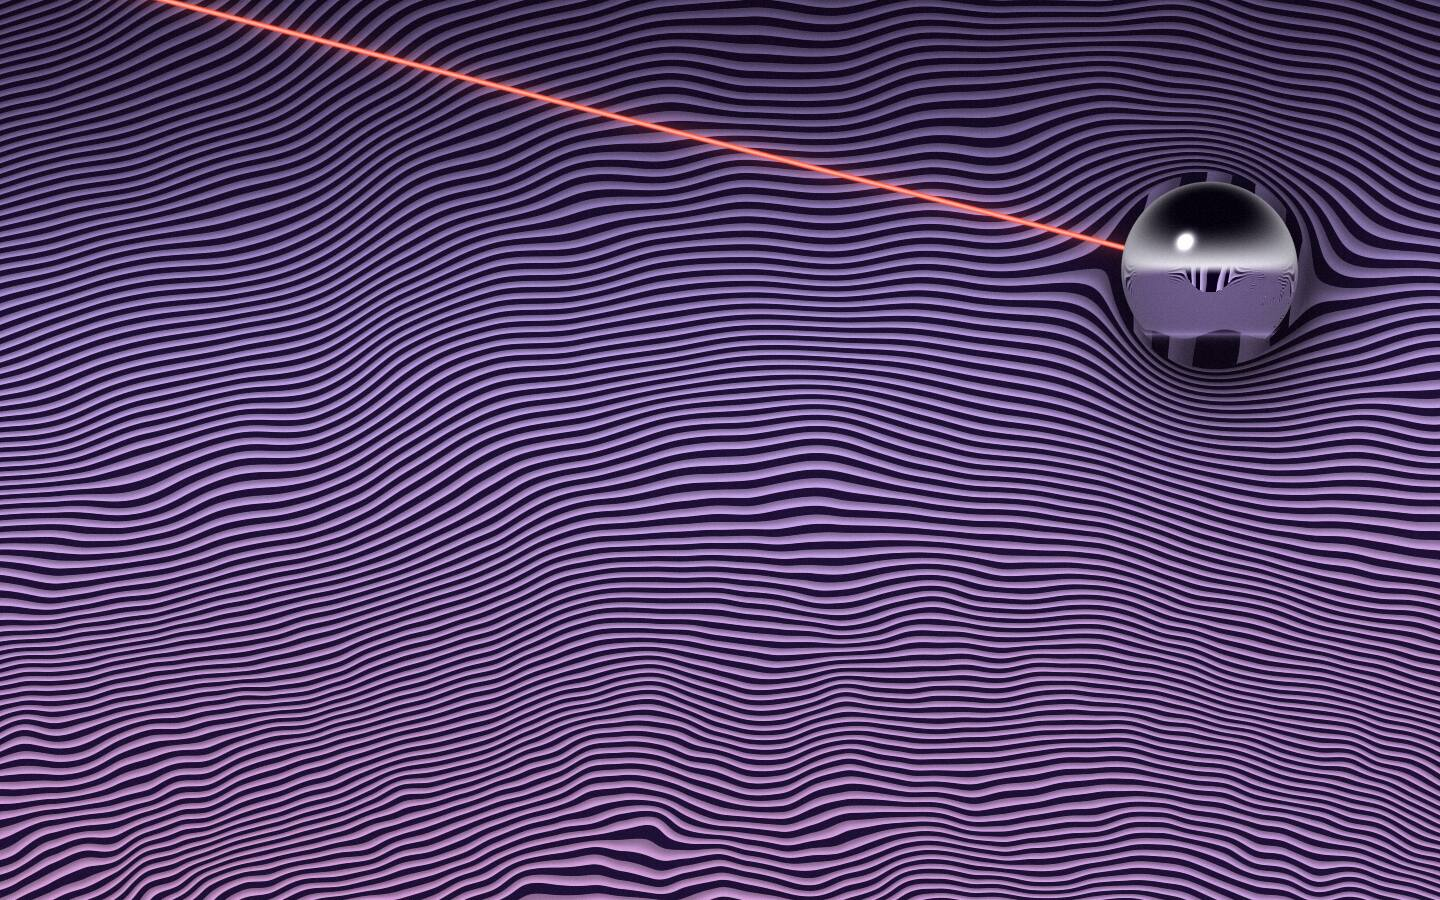
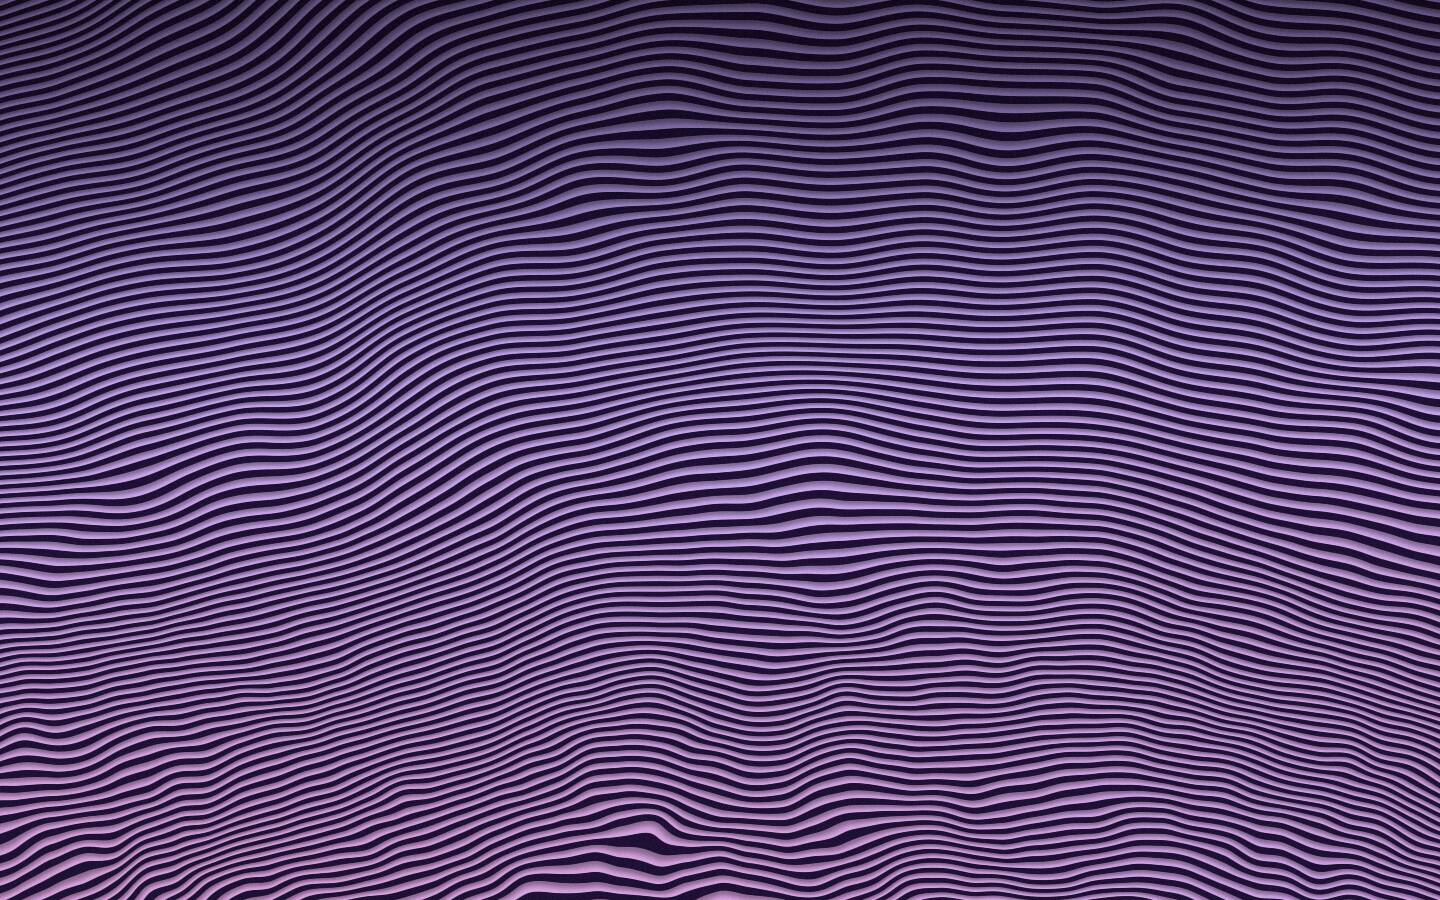
feat: more hover texts

diff --git a/index.html b/index.html
@@ -89,7 +89,7 @@
   <div class="grain" aria-hidden="true"></div>
 
   <header class="corner">
-    <a class="corner__tag" href="#top">Venkatesh Raju</a>
+    <a class="corner__tag" href="#top" data-hover="back to top">Venkatesh Raju</a>
     <button class="corner__tag corner__menu" type="button" aria-expanded="false" aria-controls="tracklist">Menu</button>
   </header>
 
@@ -113,13 +113,13 @@
     <!-- Hero: the name floats on the current; the ball knocks the letters around -->
     <section id="top" class="hero">
       <div class="hero__name-wrap">
-        <h1 class="hero__name slab slab--outlined" data-slab>Venkatesh Raju</h1>
+        <h1 class="hero__name slab slab--outlined" data-slab data-hover="go on, shove the letters">Venkatesh Raju</h1>
         <span class="hero__note scribble" aria-hidden="true">builds AI agents</span>
       </div>
 
       <div class="hero__foot">
         <p class="hero__line">Full-stack developer and final-year computer science student in Bangalore. Currently at Dscape.AI.</p>
-        <a class="hero__down" href="#about">
+        <a class="hero__down" href="#about" data-hover="scroll down">
           <span>About me</span>
           <svg class="brush brush--down" viewBox="0 0 60 120" aria-hidden="true">
             <path pathLength="1" d="M30 6 C 14 30, 46 50, 28 74 S 30 100, 30 112" />
@@ -144,12 +144,12 @@
               <path d="M20 40 L140 10" stroke="var(--ink)" stroke-width="3" fill="none" />
             </svg>
           </div>
-          <img class="about__photo" src="/art/portrait.webp" width="791" height="848" alt="Venkatesh, smiling, in a denim shirt" />
+          <img class="about__photo" src="/art/portrait.webp" width="791" height="848" alt="Venkatesh, smiling, in a denim shirt" data-hover="that's me" />
           <dl class="about__stub cut">
-            <div><dt>Projects built</dt><dd>10</dd></div>
-            <div><dt>DSA problems solved</dt><dd>300+</dd></div>
-            <div><dt>CGPA</dt><dd>8.86</dd></div>
-            <div><dt>Research papers</dt><dd>3</dd></div>
+            <div data-hover="and counting"><dt>Projects built</dt><dd>10</dd></div>
+            <div data-hover="LeetCode, in C++"><dt>DSA problems solved</dt><dd>300+</dd></div>
+            <div data-hover="out of 10"><dt>CGPA</dt><dd>8.86</dd></div>
+            <div data-hover="ask me about them"><dt>Research papers</dt><dd>3</dd></div>
           </dl>
         </figure>
 
@@ -176,7 +176,7 @@
             <div class="work__track">
 
               <article class="ticket" style="--tilt:-2.2deg; --drop:0vh">
-                <div class="ticket__art cut">
+                <div class="ticket__art cut" data-hover="updates itself daily">
                   <img src="/art/work-trend-scout.webp" width="1200" height="687" alt="" loading="lazy" />
                   <h3 class="slab slab--outlined ticket__title" data-slab>AI Trend Scout</h3>
                 </div>
@@ -189,7 +189,7 @@
               </article>
 
               <article class="ticket" style="--tilt:1.6deg; --drop:5vh">
-                <div class="ticket__art cut">
+                <div class="ticket__art cut" data-hover="ranked 7th">
                   <img src="/art/work-sales.webp" width="1200" height="750" alt="" loading="lazy" />
                   <h3 class="slab slab--outlined ticket__title" data-slab>Sales Forecasting</h3>
                   <span class="sticker sticker--stat">90.46% accurate</span>
@@ -203,7 +203,7 @@
               </article>
 
               <article class="ticket" style="--tilt:-1deg; --drop:-3vh">
-                <div class="ticket__art cut">
+                <div class="ticket__art cut" data-hover="99.62%, not a typo">
                   <img src="/art/work-neurorag.webp" width="1200" height="800" alt="" loading="lazy" />
                   <h3 class="slab slab--outlined ticket__title" data-slab>NeuroRAG-PD</h3>
                   <span class="sticker sticker--stat">99.62% accurate</span>
@@ -217,7 +217,7 @@
               </article>
 
               <article class="ticket" style="--tilt:2.4deg; --drop:3vh">
-                <div class="ticket__art cut">
+                <div class="ticket__art cut" data-hover="live chat, try it">
                   <img src="/art/work-chat-sync.webp" width="1200" height="687" alt="" loading="lazy" />
                   <h3 class="slab slab--outlined ticket__title" data-slab>Chat Sync</h3>
                 </div>
@@ -230,7 +230,7 @@
               </article>
 
               <article class="ticket" style="--tilt:-1.6deg; --drop:-1vh">
-                <div class="ticket__art cut">
+                <div class="ticket__art cut" data-hover="new posts land here">
                   <img src="/art/work-blog.webp" width="1200" height="687" alt="" loading="lazy" />
                   <h3 class="slab slab--outlined ticket__title" data-slab>Personal Blog</h3>
                 </div>
@@ -251,7 +251,7 @@
     <section id="now" class="frame now" aria-labelledby="now-title">
       <div class="now__grid">
         <div class="now__role">
-          <h3 class="now__title">Agentic AI Developer</h3>
+          <h3 class="now__title" data-hover="the day job">Agentic AI Developer</h3>
           <p class="now__where">Dscape.AI Pvt Ltd, since January 2026</p>
           <p>I build n8n automation pipelines for real business workflows, and the RAG, NLP and machine-learning pieces that turn those pipelines into agents.</p>
           <ul class="tags">
@@ -279,13 +279,13 @@
       </div>
 
       <ul class="wall" aria-label="Tools I use">
-        <li class="wall__word wall__word--fav" data-wall>React<svg class="loop" viewBox="0 0 200 100" preserveAspectRatio="none" aria-hidden="true"><path data-draw d="M14 52 C 10 14, 186 6, 192 44 C 198 88, 24 96, 10 62 C 4 40, 48 18, 80 16" /></svg></li>
+        <li class="wall__word wall__word--fav" data-wall data-hover="a favourite">React<svg class="loop" viewBox="0 0 200 100" preserveAspectRatio="none" aria-hidden="true"><path data-draw d="M14 52 C 10 14, 186 6, 192 44 C 198 88, 24 96, 10 62 C 4 40, 48 18, 80 16" /></svg></li>
         <li class="wall__word" data-wall>Node.js</li>
-        <li class="wall__word wall__word--fav" data-wall>Python<svg class="loop" viewBox="0 0 200 100" preserveAspectRatio="none" aria-hidden="true"><path data-draw d="M18 48 C 14 10, 190 12, 190 50 C 190 92, 20 92, 12 58 C 8 36, 60 14, 96 14" /></svg></li>
+        <li class="wall__word wall__word--fav" data-wall data-hover="a favourite">Python<svg class="loop" viewBox="0 0 200 100" preserveAspectRatio="none" aria-hidden="true"><path data-draw d="M18 48 C 14 10, 190 12, 190 50 C 190 92, 20 92, 12 58 C 8 36, 60 14, 96 14" /></svg></li>
         <li class="wall__word" data-wall>C++</li>
         <li class="wall__word" data-wall>MongoDB</li>
         <li class="wall__word" data-wall>Express</li>
-        <li class="wall__word wall__word--fav" data-wall>n8n<svg class="loop" viewBox="0 0 200 100" preserveAspectRatio="none" aria-hidden="true"><path data-draw d="M16 54 C 8 16, 184 4, 192 46 C 198 86, 28 98, 12 64 C 4 44, 52 20, 84 18" /></svg></li>
+        <li class="wall__word wall__word--fav" data-wall data-hover="a favourite">n8n<svg class="loop" viewBox="0 0 200 100" preserveAspectRatio="none" aria-hidden="true"><path data-draw d="M16 54 C 8 16, 184 4, 192 46 C 198 86, 28 98, 12 64 C 4 44, 52 20, 84 18" /></svg></li>
         <li class="wall__word" data-wall>Docker</li>
         <li class="wall__word" data-wall>AWS</li>
         <li class="wall__word" data-wall>Supabase</li>
@@ -306,7 +306,7 @@
 
     <section id="contact" class="contact" aria-labelledby="contact-title">
       <div class="heading">
-        <h2 id="contact-title" class="slab slab--outlined" data-slab>Say hi</h2>
+        <h2 id="contact-title" class="slab slab--outlined" data-slab data-hover="really, say hi">Say hi</h2>
         <span class="scribble" aria-hidden="true">let it happen</span>
       </div>
 
@@ -323,7 +323,7 @@
     </section>
   </main>
 
-  <footer class="footer">
+  <footer class="footer" data-hover="thanks for scrolling all the way">
     <p>© 2026 Venkatesh Raju. Inspired by Currents (Tame Impala, 2015).</p>
   </footer>
 </body>

diff --git a/src/main.js b/src/main.js
@@ -4,9 +4,9 @@ import './styles/base.css';
 import './styles/slab.css';
 import './styles/ticket.css';
 import './styles/sections.css';
+import './styles/hover-notes.css';
 
 import { createCurrents } from './hero/currents.js';
-import { createSphere } from './hero/sphere.js';
 import { createFloatingName } from './hero/floatingName.js';
 import { splitSlabs } from './motion/slab.js';
 import {
@@ -20,6 +20,7 @@ import {
 } from './motion/scroll.js';
 import { pinTicketStrip, tearOnClick } from './sections/tickets.js';
 import { initMenu } from './ui/menu.js';
+import { createHoverNotes } from './ui/hoverNotes.js';
 
 const root = document.documentElement;
 const reduced = matchMedia('(prefers-reduced-motion: reduce)').matches;
@@ -42,40 +43,31 @@ function seenIntro() {
 }
 
 /* ---------- The current ---------- */
-const sphere = createSphere();
+const pointer = createHoverNotes();
 let scene = 'hero';
-let heroRest = { x: 0.2, y: -0.15 };
-let heroRadius = 0.115;
 let floating = null;
-const clamp = (v, a, b) => Math.min(b, Math.max(a, v));
-
-function contactRest() {
-  const aspect = window.innerWidth / window.innerHeight;
-  return aspect > 0.9 ? { x: 0.34 * aspect, y: 0.2 } : { x: 0.24 * aspect, y: 0.3 };
-}
 
 const currents = createCurrents(document.getElementById('currents'), {
   mobile,
   onFrame(state, dt) {
     if (state.intro < 10) state.intro += dt;
-    if (state.intro > 1.1) sphere.unlock();
-    sphere.update(dt, state.time);
-    state.sphere = sphere.uniform;
-    state.trail = sphere.trail;
 
-    // the ball only starts shoving letters once it has landed
+    // Over the liquid, the pointer parts the stripes and nudges the floating letters
+    pointer.update(dt);
+    const W = window.innerWidth;
+    const H = window.innerHeight;
+    const { cx, cy, liquid } = pointer.state;
+    const r = pointer.radius * liquid;
+    state.cursor = [(cx - W / 2) / H, (H / 2 - cy) / H, r / H];
+
     if (floating && scene === 'hero') {
-      const W = window.innerWidth;
-      const H = window.innerHeight;
-      const [x, y, r] = state.sphere;
-      const ball = { x: W / 2 + x * H, y: H / 2 - y * H, r: state.intro > 0.9 ? r * H : 0 };
-      floating.update(dt, state.time, ball, state.sink, state.intro, !reduced);
+      floating.update(dt, state.time, { x: cx, y: cy, r }, state.sink, state.intro, !reduced);
       currents.setMask(floating.drawMask());
     }
   },
 });
 
-async function layoutHero(snap) {
+async function layoutHero() {
   if (!currents) return;
   currents.resize();
   try {
@@ -86,44 +78,30 @@ async function layoutHero(snap) {
   floating ||= createFloatingName(document.querySelector('.hero__name'));
   const end = floating.measure();
 
-  // Landscape: the ball rests just past the end of RAJU, as if it had just pushed
-  // through. Portrait: it sits lower in the open liquid, like the album cover.
+  // the liquid floods out from under the name, and the letters surface as it passes
   const W = window.innerWidth;
   const H = window.innerHeight;
-  const portrait = H > W * 1.1;
-  heroRadius = portrait ? 0.085 : 0.11;
-  const rPx = heroRadius * H;
-  const px = portrait ? W * 0.6 : clamp(end.right + rPx * 2, W * 0.45, W - rPx * 1.5);
-  const py = portrait
-    ? clamp(end.cy + end.fontPx * 0.7 + rPx * 1.6, H * 0.4, H - rPx * 2.8)
-    : clamp(end.cy + rPx * 0.3, H * 0.3, H - rPx * 2.4);
-  heroRest = { x: (px - W / 2) / H, y: (H / 2 - py) / H };
-  sphere.setRadius(scene === 'hero' ? heroRadius : heroRadius * 0.9);
-  sphere.setRest(...Object.values(scene === 'hero' ? heroRest : contactRest()), snap);
+  currents.state.floodFrom = [(end.right * 0.5 - W / 2) / H, (H / 2 - end.cy) / H];
 }
 
 if (currents) {
   root.classList.add('webgl');
   const intro = !reduced && !seenIntro();
   currents.state.intro = intro ? 0 : 10;
-  await layoutHero(true);
+  await layoutHero();
 
   if (reduced) {
     currents.renderOnce();
   } else {
     currents.start();
   }
-  setTimeout(() => root.classList.add('is-ready'), intro ? 1300 : 50);
-
-  window.addEventListener('pointermove', (e) => sphere.pointer(e.clientX, e.clientY), { passive: true });
-  document.addEventListener('pointerleave', () => sphere.release());
-  window.addEventListener('blur', () => sphere.release());
+  setTimeout(() => root.classList.add('is-ready'), intro ? 1000 : 50);
 
   let resizeTimer;
   window.addEventListener('resize', () => {
     clearTimeout(resizeTimer);
     resizeTimer = setTimeout(() => {
-      layoutHero(false);
+      layoutHero();
       if (reduced) currents.renderOnce();
     }, 150);
   });
@@ -162,22 +140,17 @@ if (currents) {
         scene = 'hero';
         heroSink(self);
         currents.state.maskAmt = 1;
-        sphere.setRadius(heroRadius);
-        sphere.setRest(heroRest.x, heroRest.y, reduced);
       }
       sync();
     },
   });
 
-  // The ball rises back out of the liquid beside the email. Once the contact
-  // section's top is on screen we're in the contact scene until the hero returns.
+  // The liquid brightens back up behind the email. Once the contact section's
+  // top is on screen we're in the contact scene until the hero returns.
   const enterContact = (self) => {
     if (scene === 'contact' || self.progress <= 0) return;
     scene = 'contact';
     currents.state.maskAmt = 0;
-    const r = contactRest();
-    sphere.setRadius(heroRadius * 0.9);
-    sphere.setRest(r.x, r.y, true);
     sync();
   };
 

diff --git a/src/hero/currents.js b/src/hero/currents.js
@@ -4,7 +4,7 @@ const vert = `#version 300 es
 in vec2 aPos;
 void main() { gl_Position = vec4(aPos, 0.0, 1.0); }`;
 
-const UNIFORMS = ['uRes', 'uTime', 'uSphere', 'uTrail', 'uSink', 'uVel', 'uIntro', 'uFreq', 'uMaskAmt', 'uMask', 'uLaserFrom'];
+const UNIFORMS = ['uRes', 'uTime', 'uCursor', 'uFloodFrom', 'uSink', 'uVel', 'uIntro', 'uFreq', 'uMaskAmt', 'uMask'];
 
 function compile(gl, type, src) {
   const s = gl.createShader(type);
@@ -17,8 +17,8 @@ function compile(gl, type, src) {
 }
 
 /**
- * Full-screen Currents field. The caller owns the sphere/trail state and pushes
- * it in through `state` every frame via the `onFrame` hook.
+ * Full-screen Currents field. The caller owns the cursor and mask state and
+ * pushes it in through `state` every frame via the `onFrame` hook.
  */
 export function createCurrents(canvas, { onFrame, mobile }) {
   const gl = canvas.getContext('webgl2', { antialias: false, alpha: false, powerPreference: 'high-performance' });
@@ -62,9 +62,8 @@ export function createCurrents(canvas, { onFrame, mobile }) {
     sink: 0,
     vel: 0,
     maskAmt: 1,
-    sphere: [0, 0, 0.12],
-    trail: new Float32Array(48),
-    laserFrom: [-1, 0.62],
+    cursor: [0, 0, 0],   // shader-space xy, and the radius the lines part around
+    floodFrom: [0, 0],
   };
 
   // phones get 2x so the finer portrait bands stay crisp; adaptive scaling backs off if slow
@@ -88,11 +87,10 @@ export function createCurrents(canvas, { onFrame, mobile }) {
 
   function draw() {
     const aspect = window.innerWidth / window.innerHeight;
-    state.laserFrom = [-0.5 * aspect - 0.05, 0.56];
     gl.uniform2f(u.uRes, canvas.width, canvas.height);
     gl.uniform1f(u.uTime, state.time);
-    gl.uniform3f(u.uSphere, ...state.sphere);
-    gl.uniform2fv(u.uTrail, state.trail);
+    gl.uniform3f(u.uCursor, ...state.cursor);
+    gl.uniform2f(u.uFloodFrom, ...state.floodFrom);
     gl.uniform1f(u.uSink, state.sink);
     gl.uniform1f(u.uVel, state.vel);
     gl.uniform1f(u.uIntro, state.intro);
@@ -101,7 +99,6 @@ export function createCurrents(canvas, { onFrame, mobile }) {
     const bandPx = aspect < 0.9 ? 9 : 12;
     gl.uniform1f(u.uFreq, Math.min(100, Math.max(38, window.innerHeight / bandPx)));
     gl.uniform1f(u.uMaskAmt, state.maskAmt);
-    gl.uniform2f(u.uLaserFrom, ...state.laserFrom);
     gl.drawArrays(gl.TRIANGLES, 0, 3);
   }
 

diff --git a/src/hero/floatingName.js b/src/hero/floatingName.js
@@ -1,5 +1,5 @@
 // The name floats on the current. Each slab letter bobs with the flow, gets
-// shoved aside by the chrome ball and springs back, and is redrawn every frame
+// nudged aside by the pointer and springs back, and is redrawn every frame
 // into a small mask so the shader can bend its lines and cast shadows around it.
 
 const MASK_SCALE = 0.25;
@@ -46,20 +46,20 @@ export function createFloatingName(nameEl) {
   }
 
   /**
-   * @param ball  {x, y, r} in viewport px
+   * @param ring  the pointer's push circle {x, y, r} in viewport px (r = 0 when it isn't over the liquid)
    * @param sink  0..1 as the hero scrolls away
    * @param intro seconds since the load sequence began (large when skipped)
    * @param live  false for reduced motion: no bobbing, no collisions
    */
-  function update(dt, time, ball, sink, intro, live) {
+  function update(dt, time, ring, sink, intro, live) {
     const sy = window.scrollY;
     for (const l of letters) {
       if (live && dt > 0) {
-        const dx = l.cx + l.x - ball.x;
-        const dy = l.cy - sy + l.y - ball.y;
-        // overlap measured in an ellipse around the letter, grown by the ball radius
-        const ex = dx / (l.rx + ball.r);
-        const ey = dy / (l.ry + ball.r);
+        const dx = l.cx + l.x - ring.x;
+        const dy = l.cy - sy + l.y - ring.y;
+        // overlap measured in an ellipse around the letter, grown by the ring radius
+        const ex = dx / (l.rx + ring.r);
+        const ey = dy / (l.ry + ring.r);
         const d = Math.hypot(ex, ey);
         if (d < 1 && d > 1e-4) {
           const o = 1 - d;
@@ -76,7 +76,7 @@ export function createFloatingName(nameEl) {
       }
 
       // surface one by one after the flood; sink one by one as you scroll
-      const rise = clamp((intro - 1.05 - l.i * 0.05) / 0.55, 0, 1);
+      const rise = clamp((intro - 0.55 - l.i * 0.05) / 0.55, 0, 1);
       const up = rise >= 1 ? 1 : easeOutBack(rise);
       const s = clamp(sink * 1.6 - l.i * 0.035, 0, 1);
       const bob = live ? Math.sin(time * 1.15 + l.i * 0.75) * fontPx * 0.02 : 0;
